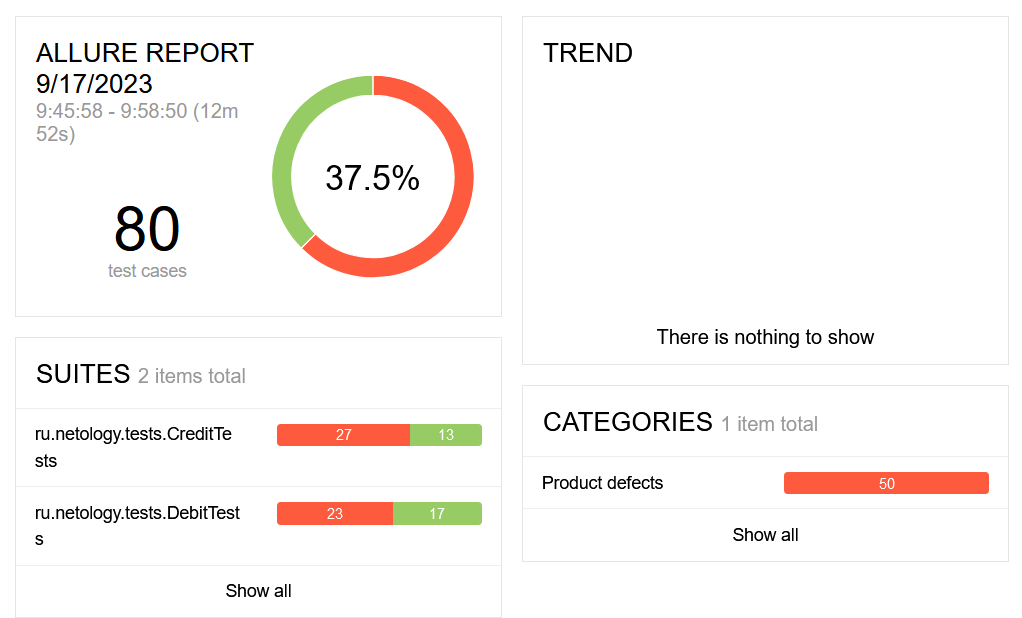
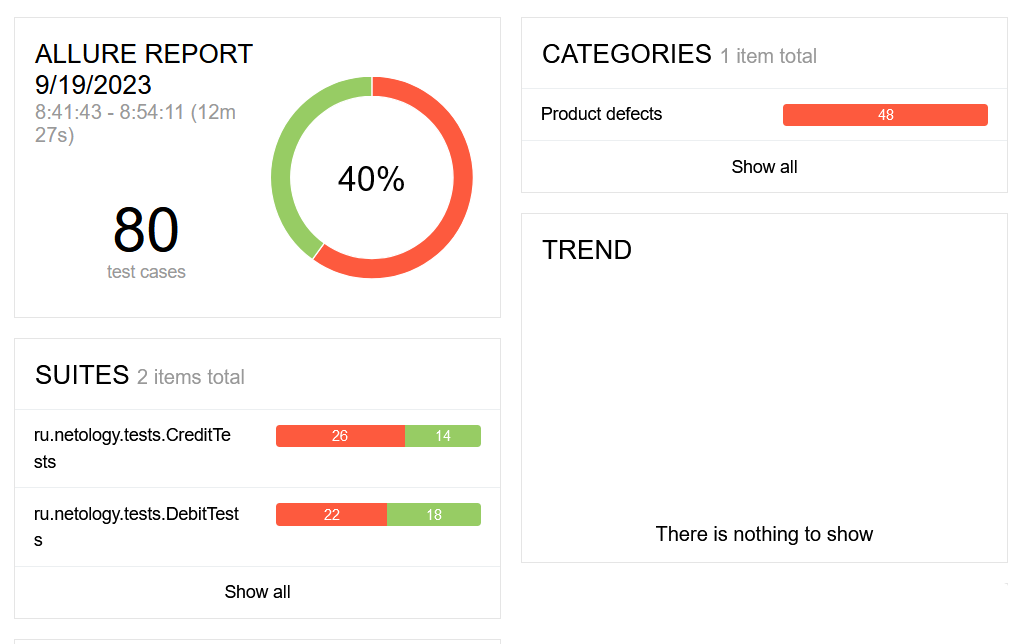
little changes

diff --git a/src/test/java/ru/netology/data/DataGenerator.java b/src/test/java/ru/netology/data/DataGenerator.java
@@ -28,17 +28,16 @@ public class DataGenerator {
     }
 
     public static String approvedCardNumberMinus1() {
-        return approvedCardNumber.substring(0, approvedCardNumber.length() - 2);
+        return approvedCardNumber.substring(0, approvedCardNumber.length() - 1);
     }
 
     public static String validYear() {
-        return LocalDate.now().plusYears(2).
+        return LocalDate.now().plusYears(1).
                 format(DateTimeFormatter.ofPattern("yy"));
     }
 
     public static String negativeYear() {
-        return "-" + LocalDate.now().plusYears(2).
-                format(DateTimeFormatter.ofPattern("yy"));
+        return "-" + validYear();
     }
 
     public static String expiredYear() {
@@ -57,6 +56,10 @@ public class DataGenerator {
 
     public static String invalidMonth() {
         return "13";
+    }
+
+    public static String negativeMonth() {
+        return "-" + validMonth();
     }
 
     public static String dashedOwner() {
@@ -84,6 +87,14 @@ public class DataGenerator {
         return "000";
     }
 
+    public static String negativeCVV() {
+        return "-" + validCVV();
+    }
+
+    public static String twoDigitCVV() {
+        return fake.number().digits(2);
+    }
+
     public static String zeroes() {
         return "00";
     }
@@ -96,16 +107,12 @@ public class DataGenerator {
         return "";
     }
 
-    public static String digits() {
-        return fake.regexify("[0-1]{4,}");
-    }
-
-    public static String negativeDigits() {
-        return "-" + fake.regexify("[0-1]{4,}");
+    public static String digitOwner() {
+        return fake.regexify("[0-9]{4,}");
     }
 
     public static String chars() {
-        return fake.regexify("[a-zA-Z]{5,8}");
+        return fake.regexify("[a-zA-Z]{5,}");
     }
 
     public static String hieroglyphs() {
@@ -113,6 +120,6 @@ public class DataGenerator {
     }
 
     public static String specialSymbols() {
-        return fake.regexify("[!@#$%^&*]{6,}");
+        return "!@#$%^&*";
     }
 }

diff --git a/src/test/java/ru/netology/tests/CreditTests.java b/src/test/java/ru/netology/tests/CreditTests.java
@@ -147,7 +147,7 @@ public class CreditTests {
         MainPage mainPage = new MainPage();
         var creditPage = mainPage.buyByCredit();
         creditPage.fillCardForms(approvedCardNumber(), validMonth(),
-                validYear(), validOwner(), digits());
+                validYear(), validOwner(), twoDigitCVV());
         creditPage.checkCVVText(incorrectFormat);
     }
 
@@ -158,7 +158,7 @@ public class CreditTests {
         var beforeTransact = ConnectToDB.getLastPaymentData("credit_request_entity");
         var creditPage = mainPage.buyByCredit();
         creditPage.fillCardForms(approvedCardNumber(), validMonth(),
-                validYear(), validOwner(), negativeDigits());
+                validYear(), validOwner(), negativeCVV());
         creditPage.checkSuccess();
         var afterTransact = ConnectToDB.getLastPaymentData("credit_request_entity");
         assertNotEquals(beforeTransact.getId(), afterTransact.getId());
@@ -190,7 +190,7 @@ public class CreditTests {
         MainPage mainPage = new MainPage();
         var creditPage = mainPage.buyByCredit();
         creditPage.fillCardForms(approvedCardNumber(), validMonth(),
-                validYear(), digits(), validCVV());
+                validYear(), digitOwner(), validCVV());
         creditPage.checkOwnerText(emptyForm);
     }
 
@@ -333,7 +333,7 @@ public class CreditTests {
         MainPage mainPage = new MainPage();
         var beforeTransact = ConnectToDB.getLastPaymentData("credit_request_entity");
         var creditPage = mainPage.buyByCredit();
-        creditPage.fillCardForms(approvedCardNumber(), negativeDigits(),
+        creditPage.fillCardForms(approvedCardNumber(), negativeMonth(),
                 validYear(), validOwner(), validCVV());
         creditPage.checkSuccess();
         var afterTransact = ConnectToDB.getLastPaymentData("credit_request_entity");

diff --git a/src/test/java/ru/netology/tests/DebitTests.java b/src/test/java/ru/netology/tests/DebitTests.java
@@ -155,7 +155,7 @@ public class DebitTests {
         MainPage mainPage = new MainPage();
         var debitPage = mainPage.buyByDebit();
         debitPage.fillCardForms(approvedCardNumber(), validMonth(),
-                validYear(), validOwner(), digits());
+                validYear(), validOwner(), twoDigitCVV());
         debitPage.checkCVVText(incorrectFormat);
     }
 
@@ -166,7 +166,7 @@ public class DebitTests {
         var beforeTransact = ConnectToDB.getLastPaymentData("payment_entity");
         var debitPage = mainPage.buyByDebit();
         debitPage.fillCardForms(approvedCardNumber(), validMonth(),
-                validYear(), validOwner(), negativeDigits());
+                validYear(), validOwner(), negativeCVV());
         debitPage.checkSuccess();
         var afterTransact = ConnectToDB.getLastPaymentData("payment_entity");
         assertNotEquals(beforeTransact.getId(), afterTransact.getId());
@@ -198,7 +198,7 @@ public class DebitTests {
         MainPage mainPage = new MainPage();
         var debitPage = mainPage.buyByDebit();
         debitPage.fillCardForms(approvedCardNumber(), validMonth(),
-                validYear(), digits(), validCVV());
+                validYear(), digitOwner(), validCVV());
         debitPage.checkOwnerText(emptyForm);
     }
 
@@ -331,7 +331,7 @@ public class DebitTests {
         MainPage mainPage = new MainPage();
         var beforeTransact = ConnectToDB.getLastPaymentData("payment_entity");
         var debitPage = mainPage.buyByDebit();
-        debitPage.fillCardForms(approvedCardNumber(), negativeDigits(),
+        debitPage.fillCardForms(approvedCardNumber(), negativeMonth(),
                 validYear(), validOwner(), validCVV());
         debitPage.checkSuccess();
         var afterTransact = ConnectToDB.getLastPaymentData("payment_entity");

diff --git a/docs/Report.md b/docs/Report.md
@@ -6,8 +6,8 @@
 - Покупка с оплатой дебетовой картой - 40, из которых позитивных - 3, негативных - 37;
 - Покупка с оплатой в кредит - 40, из которых позитивных - 3, негативных - 37.
 ### Процент успешных и неуспешных тест-кейсов
-- Успешных тестов - 30 (37.5%);
-- Неуспешных тестов - 50 (62.5%).
+- Успешных тестов - 32 (40%);
+- Неуспешных тестов - 48 (60%).
 
 ![AllureReport](AllureReport.png)
 

diff --git a/docs/Plan.md b/docs/Plan.md
@@ -8,7 +8,7 @@
  - Месяц - двузначное число от 01 до 12 (напр. 12)
  - Год - двузначное число, обозначающее значение  номера текущего и последующих лет (напр. 24)
  - Владелец -  Латинские буквы, слова через пробел и дефис (напр. KIRILL KIRILL)
- - CVC/CVV - Три символа (напр. 123)
+ - CVC/CVV - Три цифры (напр. 123)
 
 ### Покупка с оплатой дебетовой картой:
 Предусловия: 
